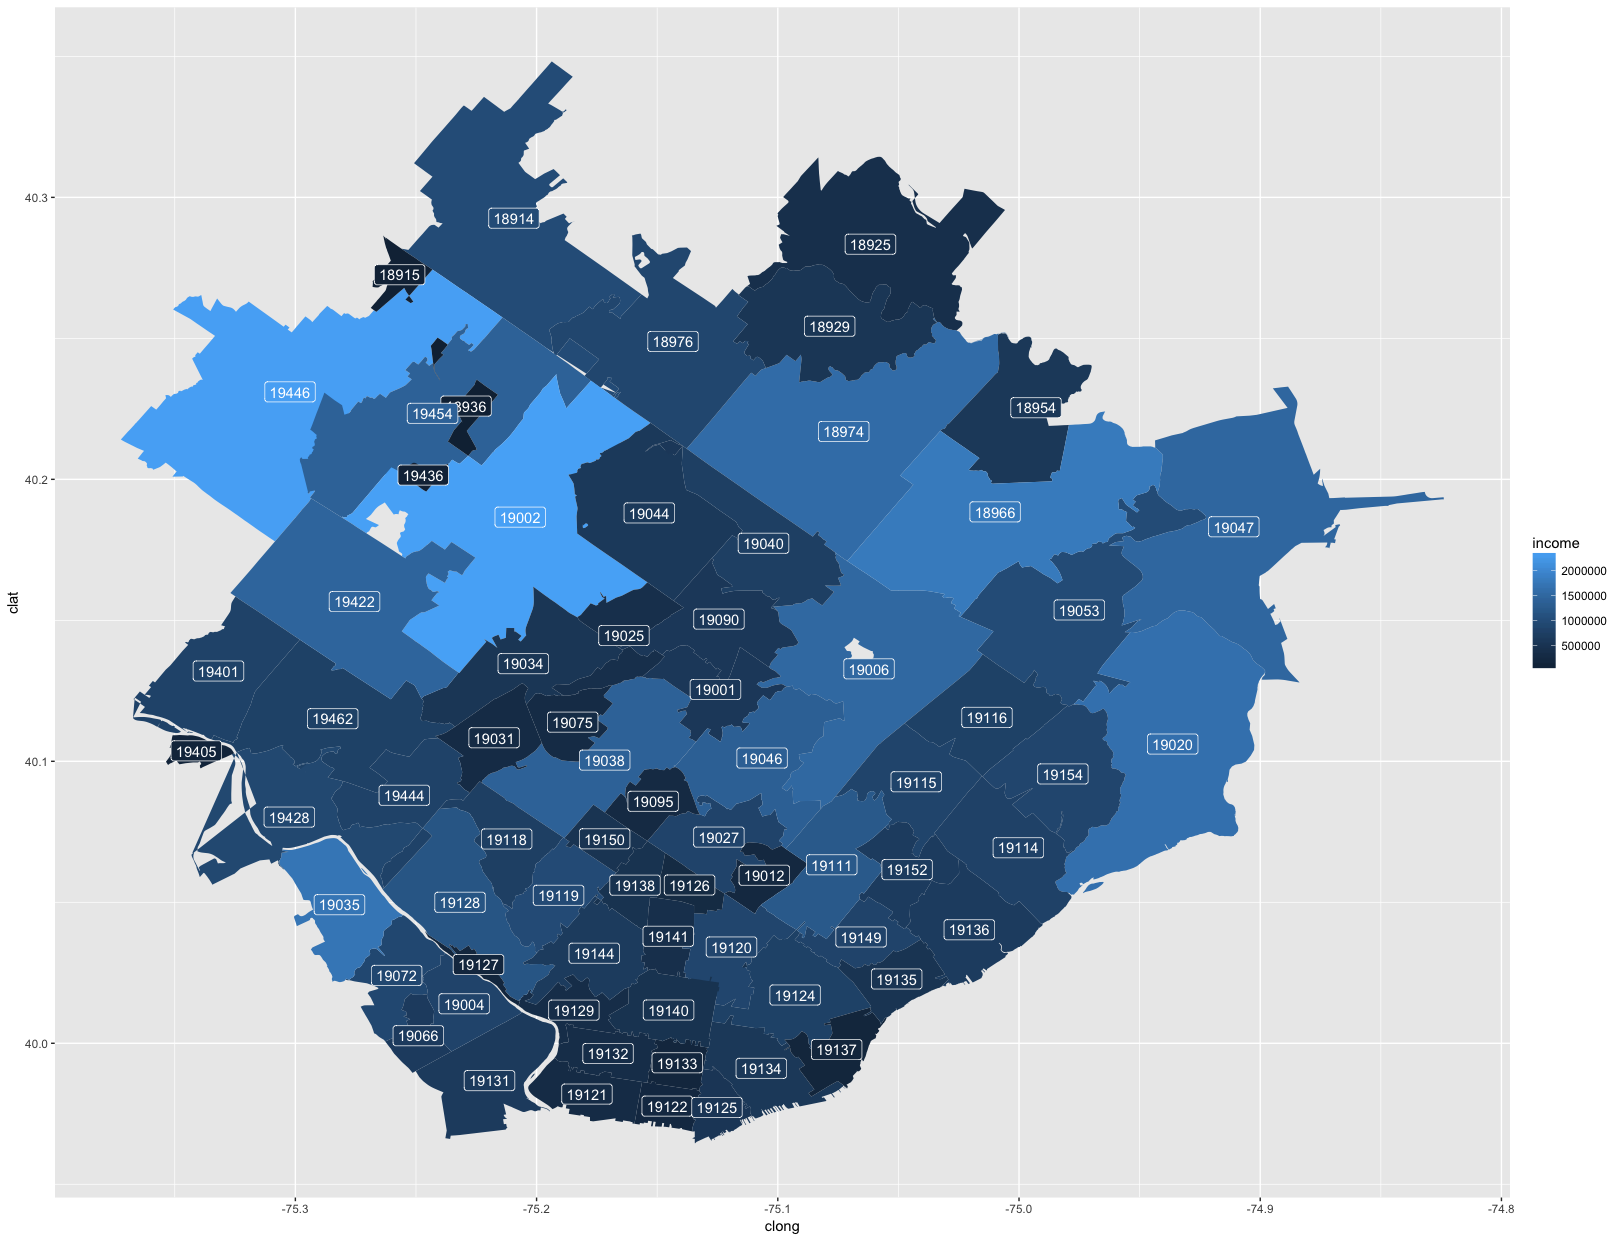
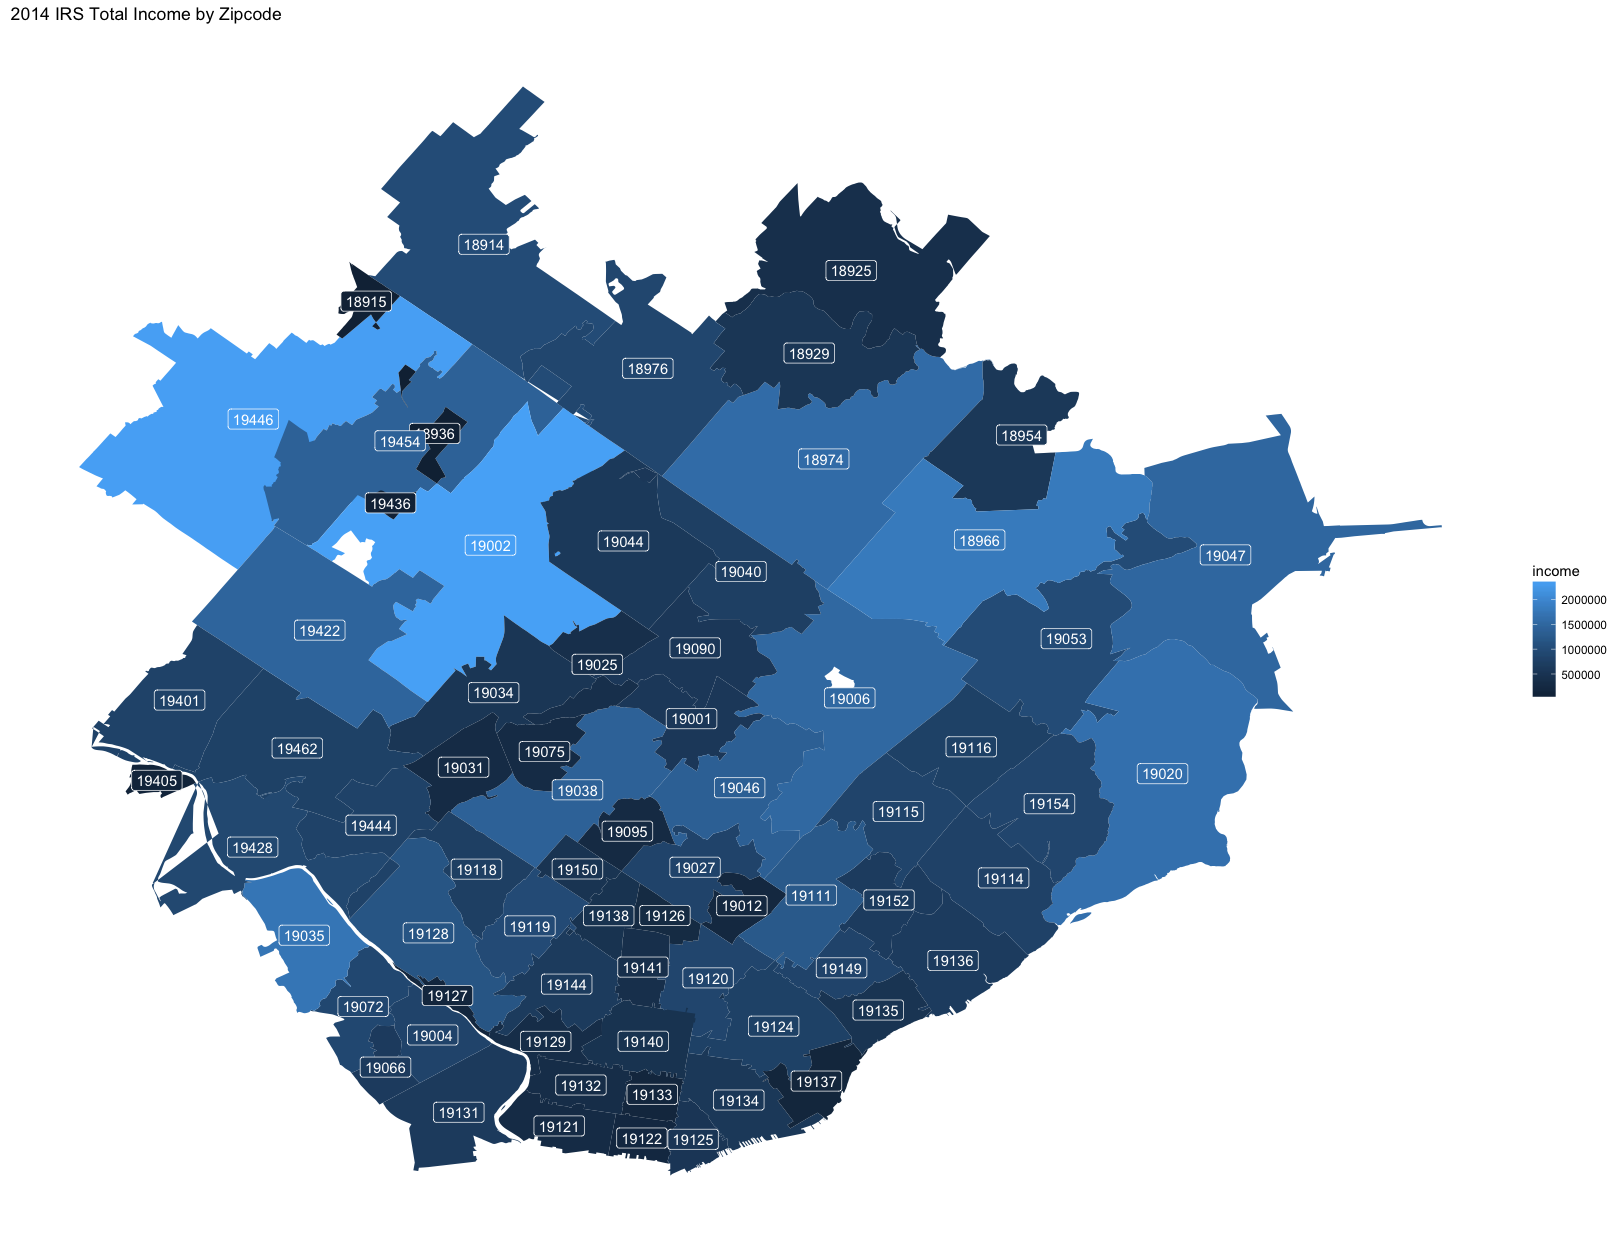
Added ggplot2 blog entry

diff --git a/css/main.css b/css/main.css
@@ -44,3 +44,7 @@ ul.posts .date {
 .links a:hover {
   text-decoration: none;
 }
+
+img {
+  max-width: 100%;
+}

diff --git a/_posts/2018-11-01-using-r-and-ggplot2.md b/_posts/2018-11-01-using-r-and-ggplot2.md
@@ -6,7 +6,7 @@ title: Using R with ggplot2
 author: Jamie
 date: 2018-11-01
 categories:
-- 
+- software
 tags:
 - r
 - rlang
@@ -212,7 +212,7 @@ returns_by_incomeFactor$incomeFactor <- factor(
   levels=unique(returns_by_incomeFactor$incomeFactor))
 ```
 
-```r
+```
              incomeFactor returns min_value
 1        $1 under $25,000 4562430         1
 4   $25,000 under $50,000 2822410     25000
@@ -236,7 +236,6 @@ bar <- ggplot(returns_by_incomeFactor,
 plot(bar)
 ```
 
-
 ![2014 Returns by Gross Income Bar Graph]({{site.baseurl}}/assets/20181101_returns_by_gross_income_bar_multiple.png)
 
 ```r
@@ -252,9 +251,11 @@ bar_single <-
 plot(bar_single)
 ```
 
+The total number of returns is easier to see if we use a stacked bar.
+
 ![2014 Returns by Gross Income Bar Graph]({{site.baseurl}}/assets/20181101_returns_by_gross_income_bar_single.png)
 
-And a pie chart, [if that's your thing](https://www.businessinsider.com/pie-charts-are-the-worst-2013-6),
+Here's a pie chart, [if that's your thing](https://www.businessinsider.com/pie-charts-are-the-worst-2013-6),
 although they look terrible in ggplot.
 
 ```r
@@ -374,21 +375,23 @@ Next, we will sum gross income by zipcode. We will also make sure that centroids
 are included.
 
 ```r
-income_by_zip_raw <- aggregate(income ~ zip, data=irs2014, sum)
+by_zip_raw <- aggregate(cbind(income, returns) ~ zip, data=irs2014, sum)
+by_zip_raw <- by_zip_raw[!(by_zip_raw$zip %in% c("00000", "99999")), ]
 pazips_data$zip <- pazips_data$ZCTA5CE
-income_by_zip_with_centroids <- join(income_by_zip_raw, pazips_data, by="zip")
+by_zip_with_centroids <- join(by_zip_raw, pazips_data, by="zip")
 
 # We reformat the dataframe above into a new dataframe containing only the
 # fields we need because extra fields can cause issues with ggplot in that
 # ggplot makes certain assumptions about field names.
-income_by_zip <- data.frame(
-  id = income_by_zip_with_centroids$id,
-  income = income_by_zip_with_centroids$income,
-  zip = income_by_zip_with_centroids$zip,
-  clong = income_by_zip_with_centroids$clong,
-  clat = income_by_zip_with_centroids$clat
+by_zip <- data.frame(
+  id = by_zip_with_centroids$id,
+  income = by_zip_with_centroids$income,
+  returns = by_zip_with_centroids$returns,
+  zip = by_zip_with_centroids$zip,
+  clong = by_zip_with_centroids$clong,
+  clat = by_zip_with_centroids$clat
 )
-income_by_zip <- income_by_zip[income_by_zip$id %in% pazips_nearby$id,]
+by_zip <- by_zip[by_zip$id %in% pazips_nearby$id,]
 ```
 
 ```
@@ -411,11 +414,203 @@ map_points <- data.frame(
   x = pazips_points_nearby$long,
   y = pazips_points_nearby$lat
 )
-ggplot(income_by_zip, aes(fill=income)) +
+ggplot(by_zip, aes(fill=income)) +
   geom_map(aes(map_id = id), map=map_points) +
   # geom_label adds a background color to the text, making it easier to read.
   geom_label(aes(label=zip, x=clong, y=clat), color="white") +
-  expand_limits(map_points)
+  expand_limits(map_points) +
+  theme_classic() +
+  theme(
+    axis.line = element_blank(),
+    axis.title = element_blank(),
+    axis.text = element_blank(),
+    axis.ticks = element_blank()) +
+  ggtitle("2014 IRS Total Income by Zipcode")
 ```
 
 ![PA Income by Zipcode map]({{ site.baseurl }}/assets/20181101_pa_zipcode_income_map.png)
+
+Although this shows the sum of the gross income in each zipcode, we also want
+to see the number of returns because the gross income could be far outbalanced
+by fewer larger gross incomes. We also change the color so that it looks a bit
+different.
+
+```r
+ggplot(by_zip, aes(fill=returns)) +
+  geom_map(aes(map_id = id), map=map_points) +
+  # geom_label adds a background color to the text, making it easier to read.
+  geom_label(aes(label=zip, x=clong, y=clat), color="white") +
+  expand_limits(map_points) +
+  scale_fill_gradient(low="palegreen", high="forestgreen") +
+  theme_classic() +
+  theme(
+    axis.line = element_blank(),
+    axis.title = element_blank(),
+    axis.text = element_blank(),
+    axis.ticks = element_blank()) +
+  ggtitle("2014 IRS Returns by Zipcode")
+```
+
+![PA Income by Zipcode map]({{ site.baseurl }}/assets/20181101_pa_zipcode_returns_map.png)
+
+We can see some possible insights here. Zipcode 19035 (Gladwyne), at the
+bottom left, has a total income on the high end, but has few returns. This
+indicates that this area is more affluent than the other members of this
+cohort. Zipcode 19120 (Olney), at the bottom middle, has a high number of
+returns but a total income on the lower end, indicating it is a poorer area
+than the other locations in these maps.
+
+# Deeper Analysis
+
+These maps are a nice looking visualization, but are probably better as part of
+a report, once you have a story to tell. Some other useful graphs...
+
+We can compare the returns and income for each zipcode using a scatterplot.
+
+```r
+# remove the row with zipcode not weird
+by_zip_all <- by_zip_raw[!(by_zip_raw$zip %in% c("00000", "99999")), ]
+# render a scatterplot
+scatterplot <- ggplot(by_zip_all, aes(x=income, y=returns)) +
+  geom_point() +
+  ggtitle("Returns vs Income")
+plot(scatterplot)
+```
+
+![2014 IRS Returns vs Income Scatterplot]({{ site.baseurl }}/assets/20181101_pa_zipcode_returns_vs_income_scatter.png)
+
+We can make things more clear by adding annotations to the graph which makes
+areas of interest clearer.
+
+```r
+income_range <- range(by_zip_all$income)
+income_mid <- sum(income_range)/2
+
+returns_range <- range(by_zip_all$returns)
+returns_mid <- sum(returns_range)/2
+
+low_income_area <- data.frame(x = income_range[1], y = returns_mid)
+low_income_area[nrow(low_income_area) + 1,] =
+  list(income_mid, returns_mid)
+low_income_area[nrow(low_income_area) + 1,] =
+  list(income_mid, returns_range[2])
+low_income_area[nrow(low_income_area) + 1,] =
+  list(income_range[1], returns_range[2])
+low_income_area$id <- rownames(low_income_area)
+
+ggplot(by_zip_all, aes(x=income, y=returns)) +
+  ggtitle("Returns vs Income") +
+  geom_text(aes(label=zip)) +
+  annotate("rect",
+    xmin=income_range[1], xmax=income_mid,
+    ymin=returns_mid, ymax=returns_range[2],
+    alpha = .2, fill="red") + 
+  annotate("text", 
+    x=income_range[1], y=returns_range[2], hjust=0, vjust=1,
+    label="Low Income Area", color="white") + 
+  annotate("rect", 
+    xmin=income_mid, xmax=income_range[2],
+    ymin=returns_range[1], ymax=returns_mid,
+    alpha = .2, fill="green") +
+  annotate("text", 
+    x=income_mid, y=returns_mid, hjust=0, vjust=1,
+    label="High Income Area", color="white")
+```
+
+![2014 IRS Returns vs Income Scatterplot Annotated]({{ site.baseurl }}/assets/20181101_pa_zipcode_returns_vs_income_scatter_annotated.png)
+
+One of the problems with this is that all of the zipcode information overlaps
+in this type of scatterplot. We can use a weighted scatterplot to convey the
+same information, and, at the same time, convey the geospatial relationship of
+the zipcodes. We will use size to indicate the number of returns, fill
+to indicate the total income, and x and y coordinates for latitude and longitude
+of each zipcode's centroid. This is really a combination of the two maps above,
+with the zipcodes removed. There are solutions for displaying the zipcodes in a
+readable way that we won't go into. [1], [2]
+
+```r
+by_zip_with_centroids <- by_zip_with_centroids[!(by_zip_with_centroids$zip %in% c("00000", "99999")), ]
+ggplot(by_zip_with_centroids, aes(x=clong, y=clat, size=returns, fill=income)) +
+  geom_point(shape=21) +
+  scale_fill_gradientn(colors=rainbow(4)) +
+  ggtitle("Returns and Income by Zipcodes") +
+  xlab("Longitude") + ylab("Latitude")
+```
+
+![Returns and Income by Zipcode]({{site.baseurl}}/assets/20181101_pa_zipcode_returns_vs_income_weighted_scatter.png)
+
+# Working with Categorical data
+
+Recall that there is a categorical column in the data which creates groups by
+gross income. We can use that factor to produce some other graphs.
+
+Let's compare the bottom and top 30 zip codes in terms of total income. We'll
+create a stacked bar chart showing these zip codes and how the gross income
+classes make up the total income.
+
+```r
+by_zip_income_asc <- by_zip_raw[order(by_zip_raw$income),]
+by_zip_income_desc <- by_zip_raw[order(-by_zip_raw$income),]
+
+target_zips <- c(
+  as.character(head(by_zip_income_asc$zip, 30)), 
+  as.character(head(by_zip_income_desc$zip, 30)))
+
+by_zip_excerpt <- irs2014[irs2014$zip %in% target_zips,]
+by_zip_excerpt$incomeFactor <- factor(
+  by_zip_excerpt$incomeFactor,
+  levels=unique(by_zip_excerpt$incomeFactor))
+
+# Change the levels for the zip column to order by income
+by_zip_excerpt$zip <- factor(by_zip_excerpt$zip, levels = target_zips)
+ggplot(by_zip_excerpt,
+  aes(x = zip, weight = income, fill=incomeFactor)) +
+  geom_bar() +
+  theme(axis.text.x = element_text(angle=45, hjust=1)) +
+  scale_y_continuous(trans = "log10")
+```
+
+![Income for the bottom and top 50 zip codes by Gross Income class]({{ site.baseurl }}/assets/20181101_income_by_zip_stacked_bar_log.png)
+
+We can see that the bottom zip codes are missing gross income classes
+"$100,000 under $200,000" and "$200,000 or more". Note zip code 16802, State
+College, which is made up mostly of the lowest two gross income categories.
+Another notable area is Gladwyne (19035). We can see that the size of largest income
+class, "$200,000 or more" is among the largest across all zip codes, and that
+each other class is smaller than the other zip codes. We can make this
+relationship clearer if we use a regular, instead of logarithmic scale, for
+the y axis.
+
+![Income for the bottom and top 50 zip codes by Gross Income class]({{ site.baseurl }}/assets/20181101_income_by_zip_stacked_bar.png)
+
+We can focus on the gross income class "$200,000" to find more affluent areas.
+
+```r
+high_income <- irs2014[irs2014$incomeFactor == "$200,000 or more",]
+high_income <- high_income[order(-high_income$income),]
+high_income <- high_income[high_income$income > 0,]
+rownames(high_income) <- NULL
+high_income$order <- rownames(high_income)
+high_income_excerpt <- head(high_income, 50)
+high_income_excerpt$zip <- factor(
+  high_income_excerpt$zip, levels=high_income_excerpt$zip)
+ggplot(high_income_excerpt,
+  aes(x = zip, weight=income)) +
+  geom_bar() +
+  theme(axis.text.x = element_text(angle=45, hjust=1))
+```
+
+![Top 50 Zip codes by Total Income in the $200,000 or more category]({{ site.baseurl }}/assets/20181101_high_income_by_zip_top_50.png)
+
+We can see that the largest total income areas are Wayne (19807), Rittenhouse
+Square (19103), and Bryn Mawr (19010).
+
+# Conclusion
+
+In this post, we cleaned up IRS Tax Return data in an Excel Spreadsheet. We
+aggregated results on various dimensions, and evaluated the results using
+different `ggplot2` visualizations. `ggplot2` is a rich visualization library
+for `r` that has great possibilities for customization.
+
+[1]: https://cran.r-project.org/web/packages/ggrepel/vignettes/ggrepel.html
+[2]: http://directlabels.r-forge.r-project.org/
